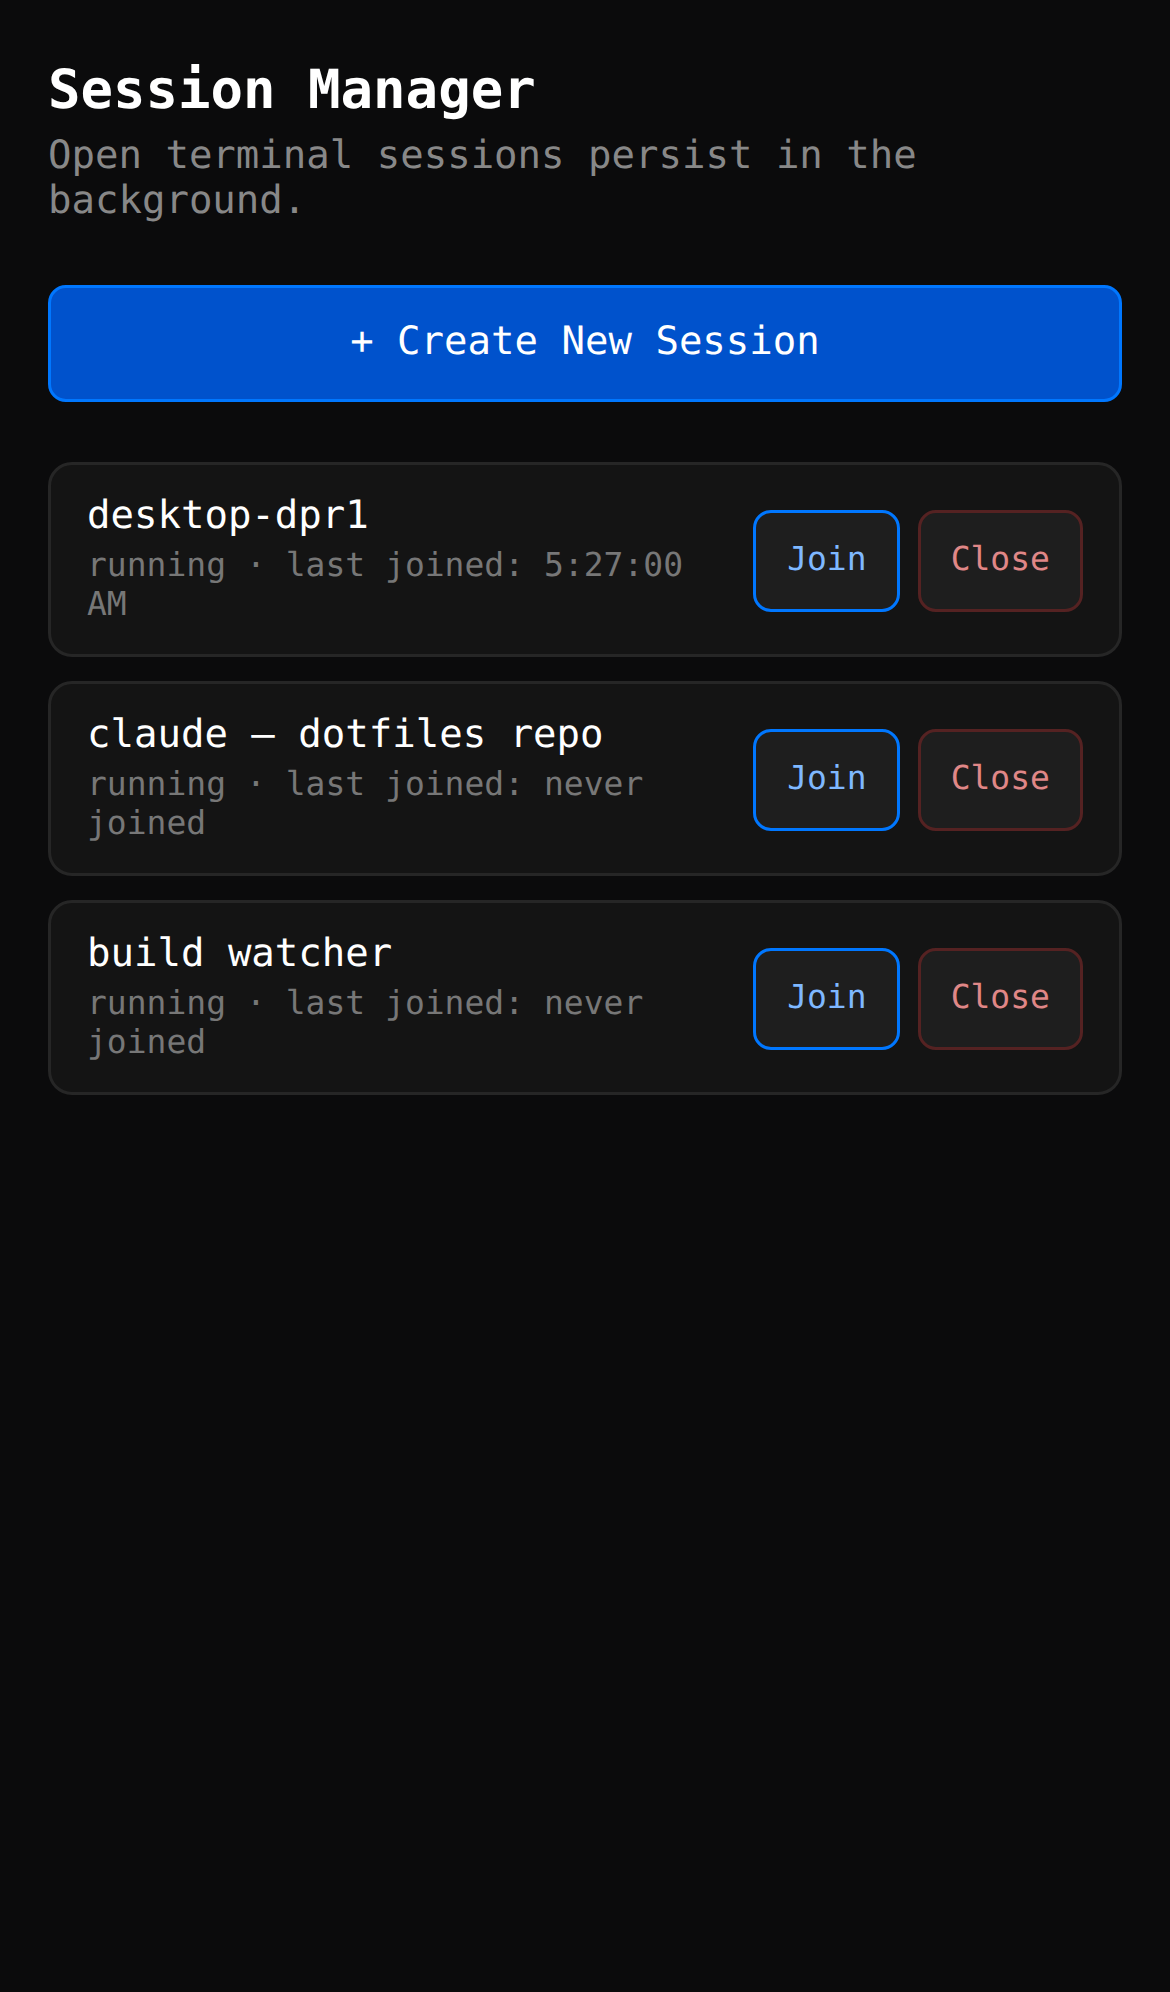
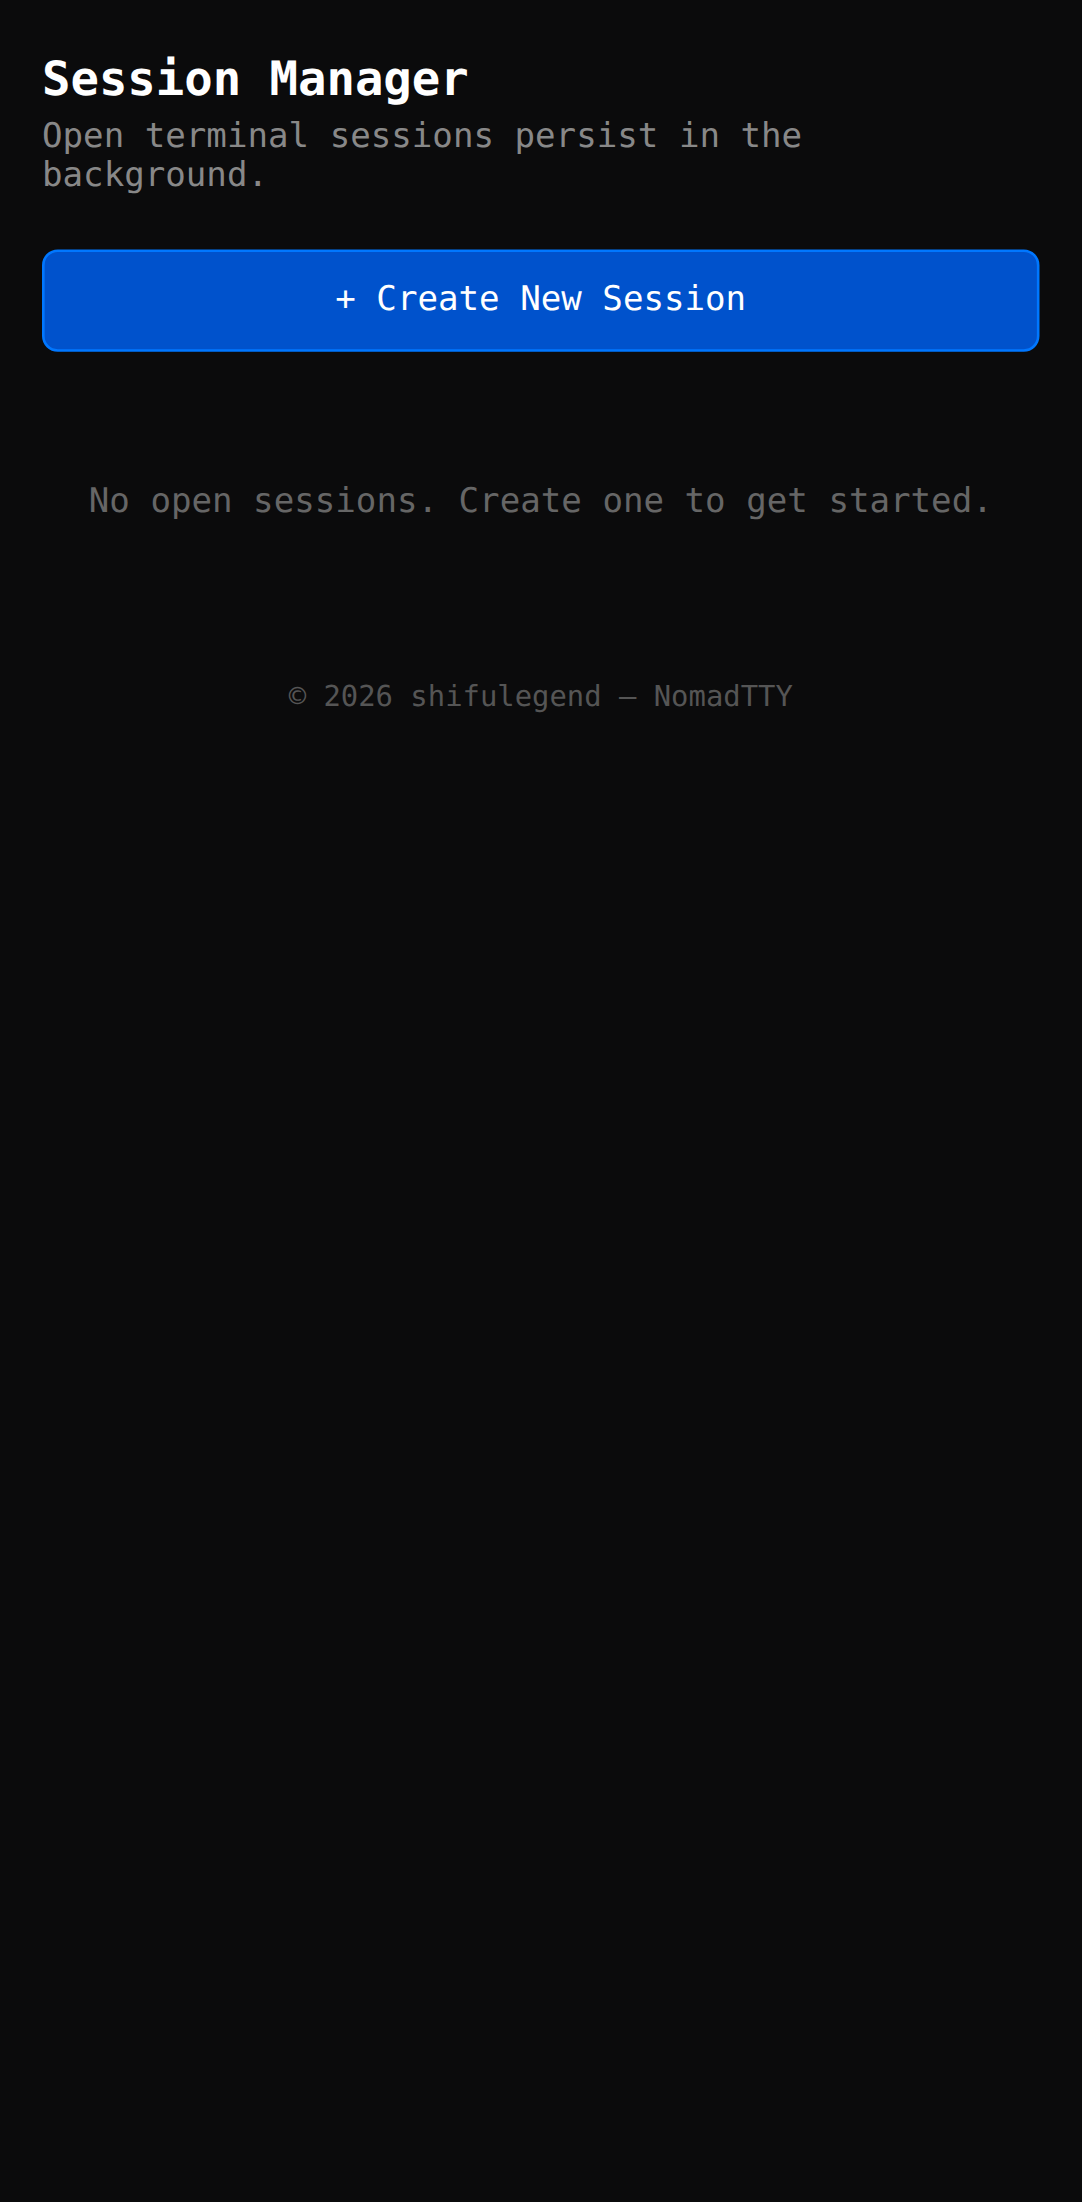
feat(session-manager): add copyright footer to Session Manager screen
Reuses the existing LICENSE/NOTICE copyright holder. Copyright notices
require no registration -- protection and the right to display one
arise automatically on creation (Berne Convention).

Claude-Session: https://claude.ai/code/session_017WwnsjfVqKpSZTQ7fhAWL3

diff --git a/public/session-manager.html b/public/session-manager.html
@@ -65,6 +65,7 @@
     .sm-btn.close{border-color:#552222;color:#e08787;}
     .sm-btn.close:active{background:#7a1f1f;color:#fff;}
     #empty-state{font-size:13px;color:#666;text-align:center;padding:30px 0;}
+    #sm-footer{font-size:11px;color:#555;text-align:center;margin-top:30px;}
   </style>
 </head>
 <body>
@@ -75,6 +76,7 @@
     <div id="list-status">Loading sessions&hellip;</div>
     <div id="session-list"></div>
     <div id="empty-state" style="display:none">No open sessions. Create one to get started.</div>
+    <div id="sm-footer">&copy; 2026 shifulegend &mdash; NomadTTY</div>
   </div>
   <script src="/session-manager.js" defer></script>
 </body>

diff --git a/docs/ai/change-trace.md b/docs/ai/change-trace.md
@@ -17,6 +17,24 @@
 
 ---
 
+### [2026-07-29] Copyright footer added to the Session Manager screen
+- **Timestamp**: 2026-07-29 12:05 UTC
+- **Change**: Added `#sm-footer` (`&copy; 2026 shifulegend — NomadTTY`) to the bottom of
+  `public/session-manager.html`'s `#sm-root`, reusing the exact copyright holder already
+  established in `LICENSE`/`NOTICE` rather than inventing new attribution text.
+- **Rationale**: User asked whether a copyright notice can be shown without registering
+  it anywhere -- yes: copyright protection and the right to display a notice both arise
+  automatically upon creation of an original work (Berne Convention); registration is
+  optional and only needed for certain enhanced remedies (e.g. US statutory damages),
+  never for the notice itself.
+- **Affected areas**: `public/session-manager.html`, `docs/assets/screenshot-session-manager-mobile.png`
+  (regenerated to reflect the new footer)
+- **Verification**: Live server boot + curl confirmed the footer markup renders; a
+  Playwright screenshot at the Pixel 7 mobile viewport confirmed zero horizontal
+  overflow and correct centered placement below `#empty-state`, not overlapping any
+  other element. Temporary verification spec deleted afterward; not committed.
+- **Related decisions**: none new -- reuses the existing `LICENSE`/`NOTICE` copyright holder.
+
 ### [2026-07-29] Comprehensive branding, SEO metadata, and favicon/manifest assets added
 - **Timestamp**: 2026-07-29 11:39 UTC
 - **Change**: Added page titles/meta description/theme-color/robots/Open Graph/Twitter
